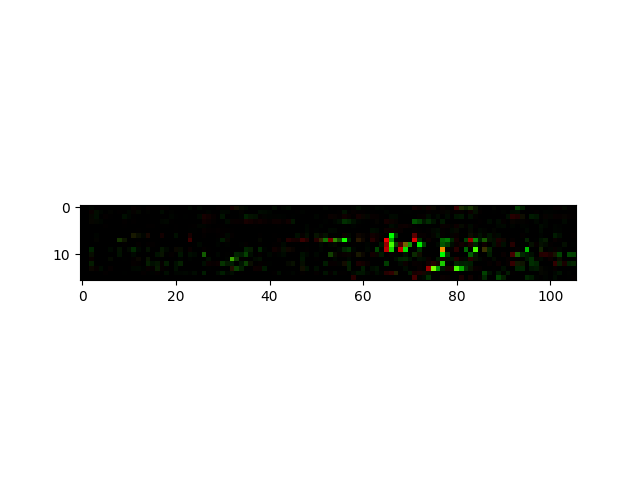
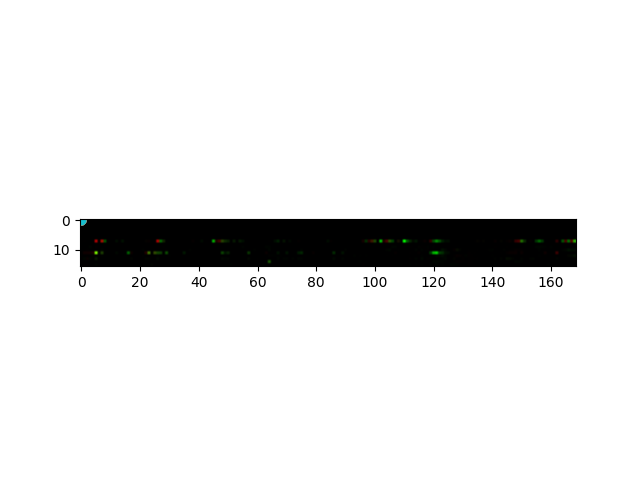
lots of things

Changed region(s): [[0.0625, 0.4062, 0.9062, 0.625]]

diff --git a/thumos/thumos-preprocessing.py b/thumos/thumos-preprocessing.py
@@ -5,8 +5,10 @@ import matplotlib.pyplot as plt
 import cv2
 import numpy as np
 import pandas as pd
+import time
 
-BASE_DIR = "C:/Users/Nick/Desktop/School/Thesis/THUMOS14_skeletons/training"
+BASE_DIR = "/media/nick/External Boi/THUMOS14_skeletons/training"
+JSON_EXPORT_DIR = "/media/nick/External Boi/THUMOS_JOINT_ROTATIONS"
 
 vidcap = cv2.VideoCapture("C:/Users/Nick/Desktop/School/Thesis/THUMOS14_skeletons/videos/v_BaseballPitch_g01_c01.avi")
 _, frame = vidcap.read()
@@ -40,8 +42,6 @@ def process_data (f):
     with open(f"{BASE_DIR}/{f}", 'rb') as f:
         j = json.load(f)
 
-
-
     f_skeleton_indices = []
     for i in skeleton:
         f_skeleton_indices.append([
@@ -49,15 +49,25 @@ def process_data (f):
             j['categories'][0]['keypoints'].index(i[1])
         ])
 
+    main_person = []
+    for x in j['annotation_sequences']:
+        if len(x['annotation_ids']) > len(main_person):
+            main_person = x['annotation_ids']
+
     vector_keypoints = []
-    for c in tqdm(range(len(j['annotations']))):
+    for c in range(len(j['annotations'])):
         x = j['annotations'][c]
+        
+        #Not main person
+        if not x['id'] in main_person:
+            continue
+
         keypoints = list(divide_chunks(x['keypoints'], 3))
 
-        plt.figure(figsize=(15,15))
-        plt.grid()
-        plt.xlim((0,320))
-        plt.ylim((0,240))
+        # plt.figure(figsize=(15,15))
+        # plt.grid()
+        # plt.xlim((0,320))
+        # plt.ylim((240,0))
         # plt.imshow(frame)
 
         vector_keypoints_one_frame = []
@@ -83,16 +93,15 @@ def process_data (f):
         _, frame = vidcap.read()
 
         # plt.show()
-        plt.savefig(f"test/{c}.png")
-        plt.close()
+        # plt.savefig(f"./test/{c}.png")
+        # plt.close()
 
-        # vector_keypoints.append(vector_keypoints_one_frame)
+        vector_keypoints.append(vector_keypoints_one_frame)
 
-    return
     vector_keypoints = np.asarray(vector_keypoints)
 
     all_vector_movements = []
-    for c in range(len(skeleton_indices)):
+    for c in range(len(f_skeleton_indices)):
         vector_movements_one_joint = []
         for v in range(len(vector_keypoints)):
             if v == 0:
@@ -140,13 +149,14 @@ files = os.listdir(BASE_DIR)
 classes = []
 for f in files:
     classes.append(f.split('_')[1])
-data = pd.DataFrame({"file":files, "class":classes})[2000:]
+data = pd.DataFrame({"file":files, "class":classes})
 
-process_data('v_Bowling_g25_c02.json')
+for _, d in tqdm(data.iterrows(), total=len(data)):
+    vector_movements = process_data(d['file'])
+    with open(f"{JSON_EXPORT_DIR}/{d['file']}", 'w') as f:
+        json.dump(vector_movements.tolist(), f)
 
-# for _, d in tqdm(data.iterrows(), total=len(data)):
-#     try:
-#         process_data(d['file'])
-#     except:
-#         print(d)
-#         break
+# d = process_data('v_Bowling_g25_c02.json')
+# plt.figure()
+# plt.imshow(d)
+# plt.savefig("hist.png")
